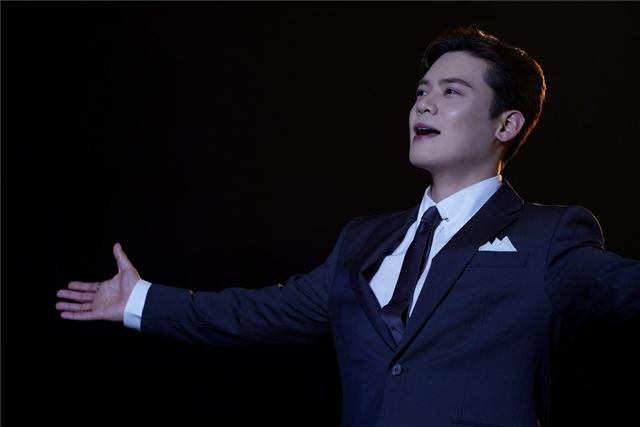
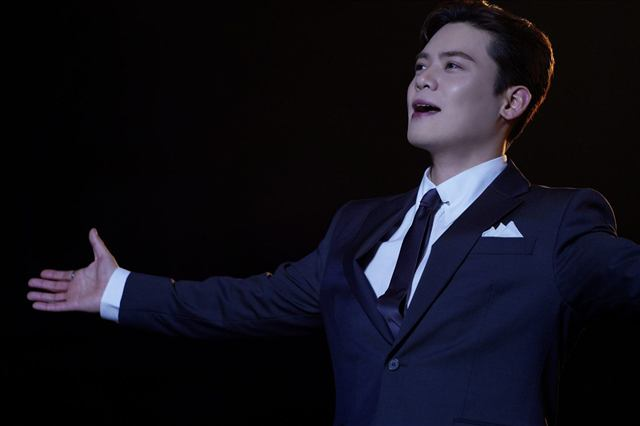
전후비교 2번 재정합: 비포 원본 복원, 애프터를 비포 화각으로 크롭
애프터가 비포보다 넓은 화각(위 7%, 왼쪽 4.7% 여백 추가)이었음.
비포를 자르는 대신 애프터를 비포 프레임 영역으로 크롭해 여백을 일치시킴.

diff --git a/js/manifest.js b/js/manifest.js
@@ -1,1 +1,1 @@
-const MANIFEST = [{"p":"표지(디자인).jpg","w":1600,"h":1178},{"p":"표지(포토).jpg","w":1600,"h":1178},{"p":"Photo/보정 전_후/1 보정전.jpg","w":1600,"h":1067},{"p":"Photo/보정 전_후/1 보정후.jpg","w":1600,"h":1067},{"p":"Photo/보정 전_후/10 보정전.jpg","w":1600,"h":900},{"p":"Photo/보정 전_후/10 보정후.jpg","w":1600,"h":900},{"p":"Photo/보정 전_후/11 보정전.jpg","w":1600,"h":900},{"p":"Photo/보정 전_후/11 보정후.jpg","w":1600,"h":900},{"p":"Photo/보정 전_후/2 보정전.jpg","w":1505,"h":1002},{"p":"Photo/보정 전_후/2 보정후.jpg","w":1600,"h":1067},{"p":"Photo/보정 전_후/3 보정전.jpg","w":1600,"h":1067},{"p":"Photo/보정 전_후/3 보정후.jpg","w":1600,"h":1067},{"p":"Photo/보정 전_후/4 보정전.jpg","w":1600,"h":1067},{"p":"Photo/보정 전_후/4 보정후.jpg","w":1600,"h":1067},{"p":"Photo/보정 전_후/5 보정전.jpg","w":1600,"h":1067},{"p":"Photo/보정 전_후/5 보정후.jpg","w":1600,"h":1067},{"p":"Photo/보정 전_후/6 보정전.jpg","w":1600,"h":1067},{"p":"Photo/보정 전_후/6 보정후.jpg","w":1600,"h":1067},{"p":"Photo/보정 전_후/7 보정전.jpg","w":1503,"h":2257},{"p":"Photo/보정 전_후/7 보정후.jpg","w":1600,"h":2400},{"p":"Photo/보정 전_후/8 보정전.jpg","w":1600,"h":2400},{"p":"Photo/보정 전_후/8 보정후.jpg","w":1600,"h":2400},{"p":"Photo/보정 전_후/9 보정전.jpg","w":1600,"h":1067},{"p":"Photo/보정 전_후/9 보정후.jpg","w":1600,"h":1067},{"p":"Photo/사진 보정/ZB1/IMG_2732.jpg","w":1279,"h":1599},{"p":"Photo/사진 보정/ZB1/IMG_2735.jpg","w":1280,"h":1600},{"p":"Photo/사진 보정/ZB1/IMG_2736.jpg","w":1279,"h":1599},{"p":"Photo/사진 보정/ZB1/KakaoTalk_Photo_2024-07-16-21-44-44-001.jpg","w":1080,"h":1440},{"p":"Photo/사진 보정/ZB1/KakaoTalk_Photo_2024-07-16-21-44-45-003.jpg","w":1080,"h":1440},{"p":"Photo/사진 보정/ZB1/KakaoTalk_Photo_2024-07-16-22-18-38-001.jpg","w":1600,"h":1200},{"p":"Photo/사진 보정/ZB1/KakaoTalk_Photo_2024-09-15-16-23-57-004.jpg","w":1280,"h":1707},{"p":"Photo/사진 보정/ZB1/KakaoTalk_Photo_2024-09-15-16-23-58-011.jpg","w":1280,"h":1707},{"p":"Photo/사진 보정/ZB1/KakaoTalk_Photo_2024-09-20-19-52-52-001.jpg","w":1600,"h":2133},{"p":"Photo/사진 보정/ZB1/KakaoTalk_Photo_2024-09-21-23-08-23-004.jpg","w":1080,"h":1440},{"p":"Photo/사진 보정/ZB1/KakaoTalk_Photo_2024-09-22-22-04-35-001.jpg","w":1058,"h":1411},{"p":"Photo/사진 보정/ZB1/KakaoTalk_Photo_2024-10-12-23-06-18-002.jpg","w":960,"h":1280},{"p":"Photo/사진 보정/ZB1/KakaoTalk_Photo_2025-04-19-01-57-40 001.jpg","w":1179,"h":1453},{"p":"Photo/사진 보정/ZB1/KakaoTalk_Photo_2025-04-19-01-57-41 002.jpg","w":1179,"h":1469},{"p":"Photo/사진 보정/ZB1/KakaoTalk_Photo_2025-04-19-01-57-41 003.jpg","w":1179,"h":1469},{"p":"Photo/사진 보정/ZB1/KakaoTalk_Photo_2025-04-19-01-57-41 004.jpg","w":1179,"h":1459},{"p":"Photo/사진 보정/ZB1/KakaoTalk_Photo_2025-04-19-01-57-43 013.jpg","w":1163,"h":1459},{"p":"Photo/사진 보정/ZB1/KakaoTalk_Photo_2025-04-19-01-57-43 014.jpg","w":1179,"h":1465},{"p":"Photo/사진 보정/ZB1/KakaoTalk_Photo_2025-04-19-01-57-43 015.jpg","w":1179,"h":1459},{"p":"Photo/사진 보정/시네마/[시네마] 모비딕 자켓1.jpg","w":1600,"h":1066},{"p":"Photo/사진 보정/시네마/[시네마] 모비딕 자켓2.jpg","w":1600,"h":1066},{"p":"Photo/사진 보정/시네마/[시네마] 모비딕 자켓3.jpg","w":1600,"h":1066},{"p":"Photo/사진 보정/시네마/[시네마] 모비딕 자켓4.jpg","w":1600,"h":1066},{"p":"Photo/사진 보정/시네마/[시네마] 모비딕 자켓5.jpg","w":1600,"h":1066},{"p":"Photo/사진 보정/시네마/[시네마] 청춘콘썰트1.jpg","w":1334,"h":2000},{"p":"Photo/사진 보정/시네마/[시네마] 청춘콘썰트2.jpg","w":1600,"h":1066},{"p":"Photo/사진 보정/시네마/[시네마] 청춘콘썰트3.jpg","w":1600,"h":1066},{"p":"Photo/사진 보정/시네마/[시네마] 청춘콘썰트4.jpg","w":1334,"h":2000},{"p":"Photo/사진 보정/시네마/[시네마] 청춘콘썰트5.jpg","w":1600,"h":1066},{"p":"Photo/사진 보정/시네마/[시네마] 청춘콘썰트6.jpg","w":1600,"h":1067},{"p":"Photo/촬영 및 보정/ZB1/GoodsoBad MV 비하인드 1.jpg","w":1179,"h":1510},{"p":"Photo/촬영 및 보정/ZB1/GoodsoBad MV 비하인드 2.jpg","w":1179,"h":1513},{"p":"Photo/촬영 및 보정/ZB1/GoodsoBad MV 비하인드 3.jpg","w":1179,"h":1482},{"p":"Photo/촬영 및 보정/ZB1/GoodsoBad MV 비하인드 4.jpg","w":1179,"h":1459},{"p":"Photo/촬영 및 보정/ZB1/마담피가로 화보 비하인드 1.jpg","w":1179,"h":1463},{"p":"Photo/촬영 및 보정/ZB1/마담피가로 화보 비하인드 2.jpg","w":1179,"h":1456},{"p":"Photo/촬영 및 보정/ZB1/마담피가로 화보 비하인드 3.jpg","w":1179,"h":1459},{"p":"Photo/촬영 및 보정/ZB1/마담피가로 화보 비하인드 4.jpg","w":1179,"h":1466},{"p":"Photo/촬영 및 보정/ZB1/영상 촬영/ZEROBASEONE 'GoodsoBad' MV 비하인드 1.jpg","w":1179,"h":1965},{"p":"Photo/촬영 및 보정/ZB1/영상 촬영/ZEROBASEONE 'GoodsoBad' MV 비하인드 2.jpg","w":1179,"h":1965},{"p":"Photo/촬영 및 보정/ZB1/영상 촬영/ZEROBASEONE 'GoodsoBad' MV 비하인드 3.jpg","w":1179,"h":1965},{"p":"Photo/촬영 및 보정/ZB1/영상 촬영/ZEROBASEONE 'GoodsoBad' MV 비하인드 4.jpg","w":1179,"h":1965},{"p":"Photo/촬영 및 보정/ZB1/영상 촬영/ZEROBASEONE 'GoodsoBad' MV 비하인드 5.jpg","w":1179,"h":1965},{"p":"Photo/촬영 및 보정/ZB1/영상 촬영/ZEROBASEONE 'GoodsoBad' MV 비하인드 6.jpg","w":1179,"h":1965},{"p":"Photo/촬영 및 보정/ZB1/영상 촬영/ZEROBASEONE 'GoodsoBad' MV 비하인드 7.jpg","w":1179,"h":2096},{"p":"Photo/촬영 및 보정/ZB1/영상 촬영/ZEROBASEONE 'GoodsoBad' MV 비하인드 8.jpg","w":1179,"h":2096},{"p":"Photo/촬영 및 보정/ZB1/영상 촬영/ZEROBASEONE 'GoodsoBad' MV 비하인드 9.jpg","w":1179,"h":2096},{"p":"Photo/촬영 및 보정/ZB1/영상 촬영/ZEROBASEONE 'GoodsoBad' MV 비하인드 10.jpg","w":1179,"h":2096},{"p":"Photo/촬영 및 보정/ZB1/영상 촬영/ZEROBASEONE 'GoodsoBad' MV 비하인드 11.jpg","w":1179,"h":2096},{"p":"Photo/촬영 및 보정/ZB1/영상 촬영/ZEROBASEONE 'GoodsoBad' MV 비하인드 12.jpg","w":1179,"h":2096},{"p":"Photo/촬영 및 보정/ZB1/영상 촬영/ZEROBASEONE 'GoodsoBad' MV 비하인드 13.jpg","w":1179,"h":2096},{"p":"Photo/촬영 및 보정/유채훈-일몬도비하인드/무대 DSC05353 셀렉 보정본 copy.jpg","w":1600,"h":1066},{"p":"Photo/촬영 및 보정/유채훈-일몬도비하인드/무대 DSC05935 셀렉 보정본 copy.jpg","w":1600,"h":1066},{"p":"Photo/촬영 및 보정/유채훈-일몬도비하인드/무대 DSC06022 셀렉 보정본 copy.jpg","w":1600,"h":1066},{"p":"Photo/촬영 및 보정/유채훈-일몬도비하인드/무대 DSC06262 셀렉 보정본 copy.jpg","w":1334,"h":2000},{"p":"Photo/촬영 및 보정/유채훈-일몬도비하인드/무대 DSC06371 셀렉 보정본 copy.jpg","w":1600,"h":1066},{"p":"Photo/촬영 및 보정/유채훈-일몬도비하인드/무대 DSC06573 셀렉 보정본 copy.jpg","w":1600,"h":1066},{"p":"Photo/촬영 및 보정/유채훈-일몬도비하인드/무대 DSC06782 셀렉 보정본 copy.jpg","w":1600,"h":1066},{"p":"Photo/촬영 및 보정/유채훈-일몬도비하인드/무대 DSC06799 셀렉 보정본 copy.jpg","w":1600,"h":1066},{"p":"Photo/촬영 및 보정/유채훈-일몬도비하인드/무대 DSC07052 셀렉 보정본 copy.jpg","w":1600,"h":1066},{"p":"Photo/촬영 및 보정/유채훈-일몬도비하인드/무대 DSC07096 셀렉 보정본 copy.jpg","w":1600,"h":1066},{"p":"Photo/촬영 및 보정/유채훈-일몬도비하인드/무대 DSC07332 셀렉 보정본 copy.jpg","w":1600,"h":1066},{"p":"Photo/촬영 및 보정/유채훈-일몬도비하인드/무대 DSC07368 셀렉 보정본 copy.jpg","w":1333,"h":2000},{"p":"Photo/촬영 및 보정/유채훈-포디움콘서트/DSC01893-셀렉-보정본.jpg","w":1600,"h":1067},{"p":"Photo/촬영 및 보정/유채훈-포디움콘서트/DSC02064-셀렉-보정본.jpg","w":1600,"h":1067},{"p":"Photo/촬영 및 보정/유채훈-포디움콘서트/DSC02195-셀렉-보정본.jpg","w":1600,"h":1067},{"p":"Photo/촬영 및 보정/유채훈-포디움콘서트/DSC02247-셀렉-보정본.jpg","w":1600,"h":1067},{"p":"Photo/촬영 및 보정/유채훈-포디움콘서트/DSC02271-셀렉-보정본.jpg","w":1600,"h":1067},{"p":"Photo/촬영 및 보정/유채훈-포디움콘서트/DSC02328-셀렉-보정본.jpg","w":1600,"h":1067},{"p":"Photo/촬영 및 보정/유채훈-포디움콘서트/DSC02492-셀렉-보정본.jpg","w":1600,"h":1067},{"p":"Photo/촬영 및 보정/유채훈-포디움콘서트/DSC04307-셀렉-보정본.jpg","w":1600,"h":1067},{"p":"디자인/Gaho/다이아몬드/1. 로고 티저.jpg","w":1600,"h":533},{"p":"디자인/Gaho/다이아몬드/2. 자켓티저 1-1.jpg","w":1600,"h":2000},{"p":"디자인/Gaho/다이아몬드/2. 자켓티저 1-2.jpg","w":1600,"h":2000},{"p":"디자인/Gaho/다이아몬드/2. 자켓티저 1-3.jpg","w":1600,"h":2000},{"p":"디자인/Gaho/다이아몬드/2. 자켓티저 2-1.jpg","w":1600,"h":2000},{"p":"디자인/Gaho/다이아몬드/2. 자켓티저 2-2.jpg","w":1600,"h":2000},{"p":"디자인/Gaho/다이아몬드/2. 자켓티저 2-3.jpg","w":1600,"h":2000},{"p":"디자인/Gaho/다이아몬드/2. 자켓티저 3-1.jpg","w":1600,"h":2000},{"p":"디자인/Gaho/다이아몬드/2. 자켓티저 3-2.jpg","w":1600,"h":2000},{"p":"디자인/Gaho/다이아몬드/MV-스틸컷-국내-1.jpg","w":1600,"h":1200},{"p":"디자인/Gaho/다이아몬드/MV-스틸컷-국내-2.jpg","w":1600,"h":1200},{"p":"디자인/Gaho/다이아몬드/MV-스틸컷-국내-3.jpg","w":1500,"h":2000},{"p":"디자인/Gaho/다이아몬드/SNS-1.jpg","w":1600,"h":1600},{"p":"디자인/Gaho/다이아몬드/SNS-2.jpg","w":1600,"h":1600},{"p":"디자인/Gaho/다이아몬드/SNS-3.jpg","w":1600,"h":1600},{"p":"디자인/Gaho/다이아몬드/SNS-4.jpg","w":1600,"h":1600},{"p":"디자인/Gaho/다이아몬드/SNS-5.jpg","w":1600,"h":1600},{"p":"디자인/Gaho/다이아몬드/[가호] Diamond 상세이미지 (1000X4498).jpg","w":1000,"h":4498},{"p":"디자인/Gaho/다이아몬드/리릭포스터.jpg","w":1500,"h":2000},{"p":"디자인/Gaho/다이아몬드/앨범커버.jpg","w":680,"h":680},{"p":"디자인/Gaho/다이아몬드/트랙리스트22.jpg","w":1600,"h":1600},{"p":"디자인/Gaho/다이아몬드/폴라포이드1.jpg","w":1500,"h":1500},{"p":"디자인/Gaho/다이아몬드/폴라포이드2.jpg","w":1500,"h":1500},{"p":"디자인/Gaho/다이아몬드/폴라포이드3.jpg","w":1500,"h":1500},{"p":"디자인/Gaho/다이아몬드/폴라포이드4.jpg","w":1500,"h":1500},{"p":"디자인/Gaho/다이아몬드/폴라포이드5.jpg","w":1500,"h":1500},{"p":"디자인/Gaho/온리유/1_02_1.jpg","w":1501,"h":2001},{"p":"디자인/Gaho/온리유/2_02_1.jpg","w":1501,"h":2001},{"p":"디자인/Gaho/온리유/3_02_1.jpg","w":1501,"h":2001},{"p":"디자인/Gaho/온리유/3_02_2.jpg","w":1501,"h":2001},{"p":"디자인/Gaho/온리유/Lyrics-포스터-가로2.jpg","w":1600,"h":1200},{"p":"디자인/Gaho/온리유/MV-스틸컷-커버1-1.jpg","w":1501,"h":2001},{"p":"디자인/Gaho/온리유/MV-스틸컷-커버1-2.jpg","w":1500,"h":2001},{"p":"디자인/Gaho/온리유/MV-스틸컷-커버1-3.jpg","w":1501,"h":2000},{"p":"디자인/Gaho/온리유/MV-스틸컷-커버1-4.jpg","w":1501,"h":2000},{"p":"디자인/Gaho/온리유/MV-스틸컷-커버2-1.jpg","w":1600,"h":1200},{"p":"디자인/Gaho/온리유/MV-스틸컷-커버2-2.jpg","w":1500,"h":2000},{"p":"디자인/Gaho/온리유/MV-스틸컷-커버2-3.jpg","w":1501,"h":2000},{"p":"디자인/Gaho/온리유/MV-스틸컷-커버2-4.jpg","w":1501,"h":2000},{"p":"디자인/Gaho/온리유/MV-스틸컷-커버3-2.jpg","w":1500,"h":2000},{"p":"디자인/Gaho/온리유/MV-스틸컷-커버3-3.jpg","w":1500,"h":2000},{"p":"디자인/Gaho/온리유/MV-스틸컷-커버3-4.jpg","w":1500,"h":2000},{"p":"디자인/Gaho/온리유/MV-스틸컷-커버3-5.jpg","w":1500,"h":2000},{"p":"디자인/Gaho/온리유/[가호] Only You 온라인커버(1500X1500).jpg","w":1500,"h":1500},{"p":"디자인/Gaho/다이아몬드/마플샵 굿즈/다이아몬드 블랙반팔티.jpg","w":1200,"h":1200},{"p":"디자인/Gaho/다이아몬드/마플샵 굿즈/다이아몬드 스택컵.jpg","w":1200,"h":1200},{"p":"디자인/Gaho/다이아몬드/마플샵 굿즈/다이아몬드 키링.jpg","w":1200,"h":1200},{"p":"디자인/Gaho/다이아몬드/마플샵 굿즈/다이아몬드 텀블러.jpg","w":1200,"h":1200},{"p":"디자인/Gaho/다이아몬드/마플샵 굿즈/다이아몬드 패브릭포스터.jpg","w":1200,"h":1200},{"p":"디자인/Gaho/다이아몬드/마플샵 굿즈/다이아몬드 핀버튼.jpg","w":1200,"h":1200},{"p":"디자인/Gaho/다이아몬드/마플샵 굿즈/다이아몬드 하얀반팔티.jpg","w":1200,"h":1200},{"p":"디자인/Gaho/온리유/마플샵 굿즈/온리유 반팔.png","w":1289,"h":1286},{"p":"디자인/Gaho/온리유/마플샵 굿즈/온리유 키링.png","w":1284,"h":1284},{"p":"디자인/Gaho/온리유/마플샵 굿즈/온리유 패브릭.png","w":1284,"h":1289},{"p":"디자인/Gaho/온리유/마플샵 굿즈/온리유 핀버튼.png","w":1286,"h":1289},{"p":"디자인/Gaho/온리유/마플샵 굿즈/온리유 후드티.png","w":1284,"h":1288},{"p":"디자인/ZB1/GoodsoBad 바이럴 이미지1.jpg","w":1080,"h":1920},{"p":"디자인/ZB1/GoodsoBad 바이럴 이미지2.jpg","w":1080,"h":1920},{"p":"디자인/ZB1/GoodsoBad 바이럴 이미지3.png","w":640,"h":100},{"p":"디자인/ZB1/GoodsoBad 바이럴 이미지4.png","w":300,"h":250},{"p":"디자인/ZB1/GoodsoBad 바이럴 이미지5.png","w":1029,"h":258},{"p":"디자인/ZB1/GoodsoBad 바이럴 이미지6.png","w":1200,"h":627},{"p":"디자인/ZB1/GoodsoBad 바이럴 이미지7.png","w":1200,"h":627},{"p":"디자인/ZB1/GoodsoBad 바이럴 이미지8.png","w":1200,"h":627},{"p":"디자인/ZB1/GoodsoBad 쇼케이스 현수막(현장사진)1.jpg","w":1440,"h":1081},{"p":"디자인/ZB1/GoodsoBad 쇼케이스 현수막(현장사진)2.jpg","w":1080,"h":1440},{"p":"디자인/ZB1/GoodsoBad 쇼케이스 현수막(현장사진)3.jpg","w":1080,"h":1440},{"p":"디자인/ZB1/GoodsoBad 쇼케이스 현수막(현장사진)4.jpg","w":1080,"h":1440},{"p":"디자인/ZB1/GoodsoBad 쇼케이스 현수막1.png","w":1492,"h":1973},{"p":"디자인/ZB1/GoodsoBad 쇼케이스 현수막2.png","w":1581,"h":236},{"p":"디자인/ZB1/GoodsoBad 쇼케이스 현수막3.png","w":1587,"h":874},{"p":"디자인/ZB1/GoodsoBad 쇼케이스 현수막4.png","w":700,"h":1882},{"p":"디자인/ZB1/GoodsoBad뮤비조회수축전(20M).jpg","w":1440,"h":1920},{"p":"디자인/ZB1/GoodsoBad뮤비조회수축전(40M).jpg","w":1440,"h":1920},{"p":"디자인/ZB1/GoodsoBad숏터뷰썸네일-건욱.jpg","w":1280,"h":720},{"p":"디자인/ZB1/GoodsoBad숏터뷰썸네일-규빈.jpg","w":1280,"h":720},{"p":"디자인/ZB1/GoodsoBad숏터뷰썸네일-리키.jpg","w":1280,"h":720},{"p":"디자인/ZB1/GoodsoBad숏터뷰썸네일-매튜.jpg","w":1280,"h":720},{"p":"디자인/ZB1/GoodsoBad숏터뷰썸네일-유지태.jpg","w":1280,"h":720},{"p":"디자인/ZB1/GoodsoBad숏터뷰썸네일-유진.jpg","w":1280,"h":720},{"p":"디자인/ZB1/GoodsoBad숏터뷰썸네일-장하오.jpg","w":1280,"h":720},{"p":"디자인/ZB1/GoodsoBad숏터뷰썸네일-지웅.jpg","w":1280,"h":720},{"p":"디자인/ZB1/GoodsoBad숏터뷰썸네일-태래.jpg","w":1280,"h":720},{"p":"디자인/ZB1/GoodsoBad숏터뷰썸네일-한빈.jpg","w":1280,"h":720},{"p":"디자인/ZB1/GoodsoBad활동마무리(웨이보)매튜.jpg","w":1080,"h":1356},{"p":"디자인/ZB1/GoodsoBad활동마무리(웨이보)지웅.jpg","w":1080,"h":1356},{"p":"디자인/ZB1/GoodsoBad활동마무리(웨이보)하오.jpg","w":1080,"h":1356},{"p":"디자인/ZB1/GoodsoBad활동마무리(웨이보)한빈.jpg","w":1080,"h":1356},{"p":"디자인/ZB1/ZB1 미니 4집 팬쇼케이스 라이브 감사 페이지.jpg","w":1600,"h":900},{"p":"디자인/ZB1/ZB1 미니 4집 팬쇼케이스 라이브 대기 페이지.jpg","w":1600,"h":900},{"p":"디자인/ZB1/ZB1 미니 4집 팬쇼케이스 라이브 썸네일.jpg","w":1600,"h":900},{"p":"디자인/ZB1/ZB1-미니-4집-팬쇼케이스-라이브-썸네일-스토리용.jpg","w":1080,"h":1920},{"p":"디자인/ZB1/인스타필터-거니니.png","w":1080,"h":1920},{"p":"디자인/ZB1/인스타필터-태니니.png","w":1080,"h":1920},{"p":"디자인/ZB1/인스타필터-튜니니.png","w":1080,"h":1920},{"p":"디자인/ZB1/인스타필터-하니니(촬영용).jpg","w":1179,"h":2096},{"p":"디자인/ZB1/인스타필터-하니니.png","w":1080,"h":1920},{"p":"디자인/ZB1/지비티빙 롯데월드 자컨 포스터.jpg","w":1080,"h":1920},{"p":"디자인/ZB1/콘서트 SNS 공지1.png","w":1080,"h":1920},{"p":"디자인/ZB1/콘서트 SNS 공지2.png","w":1080,"h":1920},{"p":"디자인/ZB1/콘서트 SNS 공지3.png","w":1080,"h":1920},{"p":"디자인/ZB1/콘서트 SNS 공지4.png","w":1080,"h":1920},{"p":"디자인/기탁/비욘드 콘서트 디자인/Beyond-포스터.jpg","w":1191,"h":1684},{"p":"디자인/기탁/비욘드 콘서트 디자인/LED-송출-코너-안내-이미지-(2816X1024px)-금쪽상담소.jpg","w":1600,"h":582},{"p":"디자인/기탁/비욘드 콘서트 디자인/LED-송출-코너-안내-이미지-(2816X1024px)-기탁퀴즈.jpg","w":1600,"h":582},{"p":"디자인/기탁/비욘드 콘서트 디자인/LED-송출-코너-안내-이미지-(2816X1024px)-딸기마켓.jpg","w":1600,"h":582},{"p":"디자인/기탁/비욘드 콘서트 디자인/LED-송출-코너-안내-이미지-(2816X1024px)-포스터.jpg","w":1600,"h":582},{"p":"디자인/기탁/비욘드 콘서트 디자인/상세이미지(960X5092).jpg","w":960,"h":5128},{"p":"디자인/기탁/비하인드 SNS 이미지/시소 뮤비 비하인드 포스트 이미지 (정방형).jpg","w":1350,"h":1350},{"p":"디자인/기탁/비하인드 SNS 이미지/시소 자켓 비하인드 포스트 이미지 (스토리용).jpg","w":1080,"h":1920},{"p":"디자인/기탁/비하인드 SNS 이미지/썸머 뮤비 포스트-이미지-(정방형).jpg","w":1350,"h":1350},{"p":"디자인/기탁/비하인드 SNS 이미지/썸머 자켓 포스트-이미지-(스토리용).jpg","w":1080,"h":1920},{"p":"디자인/디어유버블/img_bubble_popup_cnema_startsnow.jpg","w":1200,"h":2000},{"p":"디자인/디어유버블/img_bubble_popup_gaho,youchaehoon_startsnow.jpg","w":1200,"h":2000},{"p":"디자인/디어유버블/img_bubble_sns_youchaehoon_startsnow.jpg","w":975,"h":975},{"p":"디자인/라포엠/라포엠100만뷰축전이미지1.png","w":1500,"h":1500},{"p":"디자인/라포엠/라포엠100만뷰축전이미지2.png","w":1500,"h":1500},{"p":"디자인/유채훈/유음세 credit.png","w":1600,"h":3504},{"p":"디자인/유채훈/유음세 썸네일.jpg","w":1600,"h":900},{"p":"디자인/유채훈/비하인드 SNS 이미지/리필콘서트 포스트 이미지 (정방형).jpg","w":1350,"h":1350},{"p":"디자인/유채훈/비하인드 SNS 이미지/유음세 포스트-이미지-(정방형).jpg","w":1350,"h":1350},{"p":"디자인/유채훈/비하인드 SNS 이미지/일몬도비하인드 포스트-이미지-(스토리용).jpg","w":1080,"h":1920},{"p":"디자인/유채훈/비하인드 SNS 이미지/콘텐츠비하인드 포스트-이미지-(스토리용).jpg","w":1080,"h":1920},{"p":"디자인/임시완-팬콘/메인-포스터_상세이미지-(국문)1.jpg","w":750,"h":1578},{"p":"디자인/임시완-팬콘/메인-포스터_상세이미지-(국문)2.jpg","w":750,"h":5114},{"p":"디자인/임시완-팬콘/현수막 시안01.jpg","w":1600,"h":220},{"p":"디자인/정엽x유채훈 ReFeel 콘서트/상세페이지1.jpg","w":750,"h":4730},{"p":"디자인/정엽x유채훈 ReFeel 콘서트/상세페이지2.jpg","w":750,"h":1350},{"p":"디자인/정엽x유채훈 ReFeel 콘서트/포스터.jpg","w":1600,"h":2263},{"p":"디자인/정엽x유채훈 ReFeel 콘서트/현수막.jpg","w":1600,"h":222},{"p":"영상 썸네일/EP.1.jpg","w":1600,"h":900},{"p":"영상 썸네일/Let-It-Snow-썸네일.png","w":1600,"h":900},{"p":"영상 썸네일/[기탁] 2022 크리스마스 캐롤 커버 썸네일.png","w":1600,"h":900},{"p":"디자인/Gaho/온리유/Only You 로고.png","w":900,"h":545},{"p":"디자인/ZB1/GoodsoBad숏터뷰로고디자인.png","w":1600,"h":363},{"p":"디자인/ZB1/지비티빙-롯데월드-자컨-포스터-로고-디자인.png","w":1600,"h":655}];
+const MANIFEST = [{"p":"표지(디자인).jpg","w":1600,"h":1178},{"p":"표지(포토).jpg","w":1600,"h":1178},{"p":"Photo/보정 전_후/1 보정전.jpg","w":1600,"h":1067},{"p":"Photo/보정 전_후/1 보정후.jpg","w":1600,"h":1067},{"p":"Photo/보정 전_후/10 보정전.jpg","w":1600,"h":900},{"p":"Photo/보정 전_후/10 보정후.jpg","w":1600,"h":900},{"p":"Photo/보정 전_후/11 보정전.jpg","w":1600,"h":900},{"p":"Photo/보정 전_후/11 보정후.jpg","w":1600,"h":900},{"p":"Photo/보정 전_후/2 보정전.jpg","w":1600,"h":1067},{"p":"Photo/보정 전_후/2 보정후.jpg","w":1488,"h":991},{"p":"Photo/보정 전_후/3 보정전.jpg","w":1600,"h":1067},{"p":"Photo/보정 전_후/3 보정후.jpg","w":1600,"h":1067},{"p":"Photo/보정 전_후/4 보정전.jpg","w":1600,"h":1067},{"p":"Photo/보정 전_후/4 보정후.jpg","w":1600,"h":1067},{"p":"Photo/보정 전_후/5 보정전.jpg","w":1600,"h":1067},{"p":"Photo/보정 전_후/5 보정후.jpg","w":1600,"h":1067},{"p":"Photo/보정 전_후/6 보정전.jpg","w":1600,"h":1067},{"p":"Photo/보정 전_후/6 보정후.jpg","w":1600,"h":1067},{"p":"Photo/보정 전_후/7 보정전.jpg","w":1503,"h":2257},{"p":"Photo/보정 전_후/7 보정후.jpg","w":1600,"h":2400},{"p":"Photo/보정 전_후/8 보정전.jpg","w":1600,"h":2400},{"p":"Photo/보정 전_후/8 보정후.jpg","w":1600,"h":2400},{"p":"Photo/보정 전_후/9 보정전.jpg","w":1600,"h":1067},{"p":"Photo/보정 전_후/9 보정후.jpg","w":1600,"h":1067},{"p":"Photo/사진 보정/ZB1/IMG_2732.jpg","w":1279,"h":1599},{"p":"Photo/사진 보정/ZB1/IMG_2735.jpg","w":1280,"h":1600},{"p":"Photo/사진 보정/ZB1/IMG_2736.jpg","w":1279,"h":1599},{"p":"Photo/사진 보정/ZB1/KakaoTalk_Photo_2024-07-16-21-44-44-001.jpg","w":1080,"h":1440},{"p":"Photo/사진 보정/ZB1/KakaoTalk_Photo_2024-07-16-21-44-45-003.jpg","w":1080,"h":1440},{"p":"Photo/사진 보정/ZB1/KakaoTalk_Photo_2024-07-16-22-18-38-001.jpg","w":1600,"h":1200},{"p":"Photo/사진 보정/ZB1/KakaoTalk_Photo_2024-09-15-16-23-57-004.jpg","w":1280,"h":1707},{"p":"Photo/사진 보정/ZB1/KakaoTalk_Photo_2024-09-15-16-23-58-011.jpg","w":1280,"h":1707},{"p":"Photo/사진 보정/ZB1/KakaoTalk_Photo_2024-09-20-19-52-52-001.jpg","w":1600,"h":2133},{"p":"Photo/사진 보정/ZB1/KakaoTalk_Photo_2024-09-21-23-08-23-004.jpg","w":1080,"h":1440},{"p":"Photo/사진 보정/ZB1/KakaoTalk_Photo_2024-09-22-22-04-35-001.jpg","w":1058,"h":1411},{"p":"Photo/사진 보정/ZB1/KakaoTalk_Photo_2024-10-12-23-06-18-002.jpg","w":960,"h":1280},{"p":"Photo/사진 보정/ZB1/KakaoTalk_Photo_2025-04-19-01-57-40 001.jpg","w":1179,"h":1453},{"p":"Photo/사진 보정/ZB1/KakaoTalk_Photo_2025-04-19-01-57-41 002.jpg","w":1179,"h":1469},{"p":"Photo/사진 보정/ZB1/KakaoTalk_Photo_2025-04-19-01-57-41 003.jpg","w":1179,"h":1469},{"p":"Photo/사진 보정/ZB1/KakaoTalk_Photo_2025-04-19-01-57-41 004.jpg","w":1179,"h":1459},{"p":"Photo/사진 보정/ZB1/KakaoTalk_Photo_2025-04-19-01-57-43 013.jpg","w":1163,"h":1459},{"p":"Photo/사진 보정/ZB1/KakaoTalk_Photo_2025-04-19-01-57-43 014.jpg","w":1179,"h":1465},{"p":"Photo/사진 보정/ZB1/KakaoTalk_Photo_2025-04-19-01-57-43 015.jpg","w":1179,"h":1459},{"p":"Photo/사진 보정/시네마/[시네마] 모비딕 자켓1.jpg","w":1600,"h":1066},{"p":"Photo/사진 보정/시네마/[시네마] 모비딕 자켓2.jpg","w":1600,"h":1066},{"p":"Photo/사진 보정/시네마/[시네마] 모비딕 자켓3.jpg","w":1600,"h":1066},{"p":"Photo/사진 보정/시네마/[시네마] 모비딕 자켓4.jpg","w":1600,"h":1066},{"p":"Photo/사진 보정/시네마/[시네마] 모비딕 자켓5.jpg","w":1600,"h":1066},{"p":"Photo/사진 보정/시네마/[시네마] 청춘콘썰트1.jpg","w":1334,"h":2000},{"p":"Photo/사진 보정/시네마/[시네마] 청춘콘썰트2.jpg","w":1600,"h":1066},{"p":"Photo/사진 보정/시네마/[시네마] 청춘콘썰트3.jpg","w":1600,"h":1066},{"p":"Photo/사진 보정/시네마/[시네마] 청춘콘썰트4.jpg","w":1334,"h":2000},{"p":"Photo/사진 보정/시네마/[시네마] 청춘콘썰트5.jpg","w":1600,"h":1066},{"p":"Photo/사진 보정/시네마/[시네마] 청춘콘썰트6.jpg","w":1600,"h":1067},{"p":"Photo/촬영 및 보정/ZB1/GoodsoBad MV 비하인드 1.jpg","w":1179,"h":1510},{"p":"Photo/촬영 및 보정/ZB1/GoodsoBad MV 비하인드 2.jpg","w":1179,"h":1513},{"p":"Photo/촬영 및 보정/ZB1/GoodsoBad MV 비하인드 3.jpg","w":1179,"h":1482},{"p":"Photo/촬영 및 보정/ZB1/GoodsoBad MV 비하인드 4.jpg","w":1179,"h":1459},{"p":"Photo/촬영 및 보정/ZB1/마담피가로 화보 비하인드 1.jpg","w":1179,"h":1463},{"p":"Photo/촬영 및 보정/ZB1/마담피가로 화보 비하인드 2.jpg","w":1179,"h":1456},{"p":"Photo/촬영 및 보정/ZB1/마담피가로 화보 비하인드 3.jpg","w":1179,"h":1459},{"p":"Photo/촬영 및 보정/ZB1/마담피가로 화보 비하인드 4.jpg","w":1179,"h":1466},{"p":"Photo/촬영 및 보정/ZB1/영상 촬영/ZEROBASEONE 'GoodsoBad' MV 비하인드 1.jpg","w":1179,"h":1965},{"p":"Photo/촬영 및 보정/ZB1/영상 촬영/ZEROBASEONE 'GoodsoBad' MV 비하인드 2.jpg","w":1179,"h":1965},{"p":"Photo/촬영 및 보정/ZB1/영상 촬영/ZEROBASEONE 'GoodsoBad' MV 비하인드 3.jpg","w":1179,"h":1965},{"p":"Photo/촬영 및 보정/ZB1/영상 촬영/ZEROBASEONE 'GoodsoBad' MV 비하인드 4.jpg","w":1179,"h":1965},{"p":"Photo/촬영 및 보정/ZB1/영상 촬영/ZEROBASEONE 'GoodsoBad' MV 비하인드 5.jpg","w":1179,"h":1965},{"p":"Photo/촬영 및 보정/ZB1/영상 촬영/ZEROBASEONE 'GoodsoBad' MV 비하인드 6.jpg","w":1179,"h":1965},{"p":"Photo/촬영 및 보정/ZB1/영상 촬영/ZEROBASEONE 'GoodsoBad' MV 비하인드 7.jpg","w":1179,"h":2096},{"p":"Photo/촬영 및 보정/ZB1/영상 촬영/ZEROBASEONE 'GoodsoBad' MV 비하인드 8.jpg","w":1179,"h":2096},{"p":"Photo/촬영 및 보정/ZB1/영상 촬영/ZEROBASEONE 'GoodsoBad' MV 비하인드 9.jpg","w":1179,"h":2096},{"p":"Photo/촬영 및 보정/ZB1/영상 촬영/ZEROBASEONE 'GoodsoBad' MV 비하인드 10.jpg","w":1179,"h":2096},{"p":"Photo/촬영 및 보정/ZB1/영상 촬영/ZEROBASEONE 'GoodsoBad' MV 비하인드 11.jpg","w":1179,"h":2096},{"p":"Photo/촬영 및 보정/ZB1/영상 촬영/ZEROBASEONE 'GoodsoBad' MV 비하인드 12.jpg","w":1179,"h":2096},{"p":"Photo/촬영 및 보정/ZB1/영상 촬영/ZEROBASEONE 'GoodsoBad' MV 비하인드 13.jpg","w":1179,"h":2096},{"p":"Photo/촬영 및 보정/유채훈-일몬도비하인드/무대 DSC05353 셀렉 보정본 copy.jpg","w":1600,"h":1066},{"p":"Photo/촬영 및 보정/유채훈-일몬도비하인드/무대 DSC05935 셀렉 보정본 copy.jpg","w":1600,"h":1066},{"p":"Photo/촬영 및 보정/유채훈-일몬도비하인드/무대 DSC06022 셀렉 보정본 copy.jpg","w":1600,"h":1066},{"p":"Photo/촬영 및 보정/유채훈-일몬도비하인드/무대 DSC06262 셀렉 보정본 copy.jpg","w":1334,"h":2000},{"p":"Photo/촬영 및 보정/유채훈-일몬도비하인드/무대 DSC06371 셀렉 보정본 copy.jpg","w":1600,"h":1066},{"p":"Photo/촬영 및 보정/유채훈-일몬도비하인드/무대 DSC06573 셀렉 보정본 copy.jpg","w":1600,"h":1066},{"p":"Photo/촬영 및 보정/유채훈-일몬도비하인드/무대 DSC06782 셀렉 보정본 copy.jpg","w":1600,"h":1066},{"p":"Photo/촬영 및 보정/유채훈-일몬도비하인드/무대 DSC06799 셀렉 보정본 copy.jpg","w":1600,"h":1066},{"p":"Photo/촬영 및 보정/유채훈-일몬도비하인드/무대 DSC07052 셀렉 보정본 copy.jpg","w":1600,"h":1066},{"p":"Photo/촬영 및 보정/유채훈-일몬도비하인드/무대 DSC07096 셀렉 보정본 copy.jpg","w":1600,"h":1066},{"p":"Photo/촬영 및 보정/유채훈-일몬도비하인드/무대 DSC07332 셀렉 보정본 copy.jpg","w":1600,"h":1066},{"p":"Photo/촬영 및 보정/유채훈-일몬도비하인드/무대 DSC07368 셀렉 보정본 copy.jpg","w":1333,"h":2000},{"p":"Photo/촬영 및 보정/유채훈-포디움콘서트/DSC01893-셀렉-보정본.jpg","w":1600,"h":1067},{"p":"Photo/촬영 및 보정/유채훈-포디움콘서트/DSC02064-셀렉-보정본.jpg","w":1600,"h":1067},{"p":"Photo/촬영 및 보정/유채훈-포디움콘서트/DSC02195-셀렉-보정본.jpg","w":1600,"h":1067},{"p":"Photo/촬영 및 보정/유채훈-포디움콘서트/DSC02247-셀렉-보정본.jpg","w":1600,"h":1067},{"p":"Photo/촬영 및 보정/유채훈-포디움콘서트/DSC02271-셀렉-보정본.jpg","w":1600,"h":1067},{"p":"Photo/촬영 및 보정/유채훈-포디움콘서트/DSC02328-셀렉-보정본.jpg","w":1600,"h":1067},{"p":"Photo/촬영 및 보정/유채훈-포디움콘서트/DSC02492-셀렉-보정본.jpg","w":1600,"h":1067},{"p":"Photo/촬영 및 보정/유채훈-포디움콘서트/DSC04307-셀렉-보정본.jpg","w":1600,"h":1067},{"p":"디자인/Gaho/다이아몬드/1. 로고 티저.jpg","w":1600,"h":533},{"p":"디자인/Gaho/다이아몬드/2. 자켓티저 1-1.jpg","w":1600,"h":2000},{"p":"디자인/Gaho/다이아몬드/2. 자켓티저 1-2.jpg","w":1600,"h":2000},{"p":"디자인/Gaho/다이아몬드/2. 자켓티저 1-3.jpg","w":1600,"h":2000},{"p":"디자인/Gaho/다이아몬드/2. 자켓티저 2-1.jpg","w":1600,"h":2000},{"p":"디자인/Gaho/다이아몬드/2. 자켓티저 2-2.jpg","w":1600,"h":2000},{"p":"디자인/Gaho/다이아몬드/2. 자켓티저 2-3.jpg","w":1600,"h":2000},{"p":"디자인/Gaho/다이아몬드/2. 자켓티저 3-1.jpg","w":1600,"h":2000},{"p":"디자인/Gaho/다이아몬드/2. 자켓티저 3-2.jpg","w":1600,"h":2000},{"p":"디자인/Gaho/다이아몬드/MV-스틸컷-국내-1.jpg","w":1600,"h":1200},{"p":"디자인/Gaho/다이아몬드/MV-스틸컷-국내-2.jpg","w":1600,"h":1200},{"p":"디자인/Gaho/다이아몬드/MV-스틸컷-국내-3.jpg","w":1500,"h":2000},{"p":"디자인/Gaho/다이아몬드/SNS-1.jpg","w":1600,"h":1600},{"p":"디자인/Gaho/다이아몬드/SNS-2.jpg","w":1600,"h":1600},{"p":"디자인/Gaho/다이아몬드/SNS-3.jpg","w":1600,"h":1600},{"p":"디자인/Gaho/다이아몬드/SNS-4.jpg","w":1600,"h":1600},{"p":"디자인/Gaho/다이아몬드/SNS-5.jpg","w":1600,"h":1600},{"p":"디자인/Gaho/다이아몬드/[가호] Diamond 상세이미지 (1000X4498).jpg","w":1000,"h":4498},{"p":"디자인/Gaho/다이아몬드/리릭포스터.jpg","w":1500,"h":2000},{"p":"디자인/Gaho/다이아몬드/앨범커버.jpg","w":680,"h":680},{"p":"디자인/Gaho/다이아몬드/트랙리스트22.jpg","w":1600,"h":1600},{"p":"디자인/Gaho/다이아몬드/폴라포이드1.jpg","w":1500,"h":1500},{"p":"디자인/Gaho/다이아몬드/폴라포이드2.jpg","w":1500,"h":1500},{"p":"디자인/Gaho/다이아몬드/폴라포이드3.jpg","w":1500,"h":1500},{"p":"디자인/Gaho/다이아몬드/폴라포이드4.jpg","w":1500,"h":1500},{"p":"디자인/Gaho/다이아몬드/폴라포이드5.jpg","w":1500,"h":1500},{"p":"디자인/Gaho/온리유/1_02_1.jpg","w":1501,"h":2001},{"p":"디자인/Gaho/온리유/2_02_1.jpg","w":1501,"h":2001},{"p":"디자인/Gaho/온리유/3_02_1.jpg","w":1501,"h":2001},{"p":"디자인/Gaho/온리유/3_02_2.jpg","w":1501,"h":2001},{"p":"디자인/Gaho/온리유/Lyrics-포스터-가로2.jpg","w":1600,"h":1200},{"p":"디자인/Gaho/온리유/MV-스틸컷-커버1-1.jpg","w":1501,"h":2001},{"p":"디자인/Gaho/온리유/MV-스틸컷-커버1-2.jpg","w":1500,"h":2001},{"p":"디자인/Gaho/온리유/MV-스틸컷-커버1-3.jpg","w":1501,"h":2000},{"p":"디자인/Gaho/온리유/MV-스틸컷-커버1-4.jpg","w":1501,"h":2000},{"p":"디자인/Gaho/온리유/MV-스틸컷-커버2-1.jpg","w":1600,"h":1200},{"p":"디자인/Gaho/온리유/MV-스틸컷-커버2-2.jpg","w":1500,"h":2000},{"p":"디자인/Gaho/온리유/MV-스틸컷-커버2-3.jpg","w":1501,"h":2000},{"p":"디자인/Gaho/온리유/MV-스틸컷-커버2-4.jpg","w":1501,"h":2000},{"p":"디자인/Gaho/온리유/MV-스틸컷-커버3-2.jpg","w":1500,"h":2000},{"p":"디자인/Gaho/온리유/MV-스틸컷-커버3-3.jpg","w":1500,"h":2000},{"p":"디자인/Gaho/온리유/MV-스틸컷-커버3-4.jpg","w":1500,"h":2000},{"p":"디자인/Gaho/온리유/MV-스틸컷-커버3-5.jpg","w":1500,"h":2000},{"p":"디자인/Gaho/온리유/[가호] Only You 온라인커버(1500X1500).jpg","w":1500,"h":1500},{"p":"디자인/Gaho/다이아몬드/마플샵 굿즈/다이아몬드 블랙반팔티.jpg","w":1200,"h":1200},{"p":"디자인/Gaho/다이아몬드/마플샵 굿즈/다이아몬드 스택컵.jpg","w":1200,"h":1200},{"p":"디자인/Gaho/다이아몬드/마플샵 굿즈/다이아몬드 키링.jpg","w":1200,"h":1200},{"p":"디자인/Gaho/다이아몬드/마플샵 굿즈/다이아몬드 텀블러.jpg","w":1200,"h":1200},{"p":"디자인/Gaho/다이아몬드/마플샵 굿즈/다이아몬드 패브릭포스터.jpg","w":1200,"h":1200},{"p":"디자인/Gaho/다이아몬드/마플샵 굿즈/다이아몬드 핀버튼.jpg","w":1200,"h":1200},{"p":"디자인/Gaho/다이아몬드/마플샵 굿즈/다이아몬드 하얀반팔티.jpg","w":1200,"h":1200},{"p":"디자인/Gaho/온리유/마플샵 굿즈/온리유 반팔.png","w":1289,"h":1286},{"p":"디자인/Gaho/온리유/마플샵 굿즈/온리유 키링.png","w":1284,"h":1284},{"p":"디자인/Gaho/온리유/마플샵 굿즈/온리유 패브릭.png","w":1284,"h":1289},{"p":"디자인/Gaho/온리유/마플샵 굿즈/온리유 핀버튼.png","w":1286,"h":1289},{"p":"디자인/Gaho/온리유/마플샵 굿즈/온리유 후드티.png","w":1284,"h":1288},{"p":"디자인/ZB1/GoodsoBad 바이럴 이미지1.jpg","w":1080,"h":1920},{"p":"디자인/ZB1/GoodsoBad 바이럴 이미지2.jpg","w":1080,"h":1920},{"p":"디자인/ZB1/GoodsoBad 바이럴 이미지3.png","w":640,"h":100},{"p":"디자인/ZB1/GoodsoBad 바이럴 이미지4.png","w":300,"h":250},{"p":"디자인/ZB1/GoodsoBad 바이럴 이미지5.png","w":1029,"h":258},{"p":"디자인/ZB1/GoodsoBad 바이럴 이미지6.png","w":1200,"h":627},{"p":"디자인/ZB1/GoodsoBad 바이럴 이미지7.png","w":1200,"h":627},{"p":"디자인/ZB1/GoodsoBad 바이럴 이미지8.png","w":1200,"h":627},{"p":"디자인/ZB1/GoodsoBad 쇼케이스 현수막(현장사진)1.jpg","w":1440,"h":1081},{"p":"디자인/ZB1/GoodsoBad 쇼케이스 현수막(현장사진)2.jpg","w":1080,"h":1440},{"p":"디자인/ZB1/GoodsoBad 쇼케이스 현수막(현장사진)3.jpg","w":1080,"h":1440},{"p":"디자인/ZB1/GoodsoBad 쇼케이스 현수막(현장사진)4.jpg","w":1080,"h":1440},{"p":"디자인/ZB1/GoodsoBad 쇼케이스 현수막1.png","w":1492,"h":1973},{"p":"디자인/ZB1/GoodsoBad 쇼케이스 현수막2.png","w":1581,"h":236},{"p":"디자인/ZB1/GoodsoBad 쇼케이스 현수막3.png","w":1587,"h":874},{"p":"디자인/ZB1/GoodsoBad 쇼케이스 현수막4.png","w":700,"h":1882},{"p":"디자인/ZB1/GoodsoBad뮤비조회수축전(20M).jpg","w":1440,"h":1920},{"p":"디자인/ZB1/GoodsoBad뮤비조회수축전(40M).jpg","w":1440,"h":1920},{"p":"디자인/ZB1/GoodsoBad숏터뷰썸네일-건욱.jpg","w":1280,"h":720},{"p":"디자인/ZB1/GoodsoBad숏터뷰썸네일-규빈.jpg","w":1280,"h":720},{"p":"디자인/ZB1/GoodsoBad숏터뷰썸네일-리키.jpg","w":1280,"h":720},{"p":"디자인/ZB1/GoodsoBad숏터뷰썸네일-매튜.jpg","w":1280,"h":720},{"p":"디자인/ZB1/GoodsoBad숏터뷰썸네일-유지태.jpg","w":1280,"h":720},{"p":"디자인/ZB1/GoodsoBad숏터뷰썸네일-유진.jpg","w":1280,"h":720},{"p":"디자인/ZB1/GoodsoBad숏터뷰썸네일-장하오.jpg","w":1280,"h":720},{"p":"디자인/ZB1/GoodsoBad숏터뷰썸네일-지웅.jpg","w":1280,"h":720},{"p":"디자인/ZB1/GoodsoBad숏터뷰썸네일-태래.jpg","w":1280,"h":720},{"p":"디자인/ZB1/GoodsoBad숏터뷰썸네일-한빈.jpg","w":1280,"h":720},{"p":"디자인/ZB1/GoodsoBad활동마무리(웨이보)매튜.jpg","w":1080,"h":1356},{"p":"디자인/ZB1/GoodsoBad활동마무리(웨이보)지웅.jpg","w":1080,"h":1356},{"p":"디자인/ZB1/GoodsoBad활동마무리(웨이보)하오.jpg","w":1080,"h":1356},{"p":"디자인/ZB1/GoodsoBad활동마무리(웨이보)한빈.jpg","w":1080,"h":1356},{"p":"디자인/ZB1/ZB1 미니 4집 팬쇼케이스 라이브 감사 페이지.jpg","w":1600,"h":900},{"p":"디자인/ZB1/ZB1 미니 4집 팬쇼케이스 라이브 대기 페이지.jpg","w":1600,"h":900},{"p":"디자인/ZB1/ZB1 미니 4집 팬쇼케이스 라이브 썸네일.jpg","w":1600,"h":900},{"p":"디자인/ZB1/ZB1-미니-4집-팬쇼케이스-라이브-썸네일-스토리용.jpg","w":1080,"h":1920},{"p":"디자인/ZB1/인스타필터-거니니.png","w":1080,"h":1920},{"p":"디자인/ZB1/인스타필터-태니니.png","w":1080,"h":1920},{"p":"디자인/ZB1/인스타필터-튜니니.png","w":1080,"h":1920},{"p":"디자인/ZB1/인스타필터-하니니(촬영용).jpg","w":1179,"h":2096},{"p":"디자인/ZB1/인스타필터-하니니.png","w":1080,"h":1920},{"p":"디자인/ZB1/지비티빙 롯데월드 자컨 포스터.jpg","w":1080,"h":1920},{"p":"디자인/ZB1/콘서트 SNS 공지1.png","w":1080,"h":1920},{"p":"디자인/ZB1/콘서트 SNS 공지2.png","w":1080,"h":1920},{"p":"디자인/ZB1/콘서트 SNS 공지3.png","w":1080,"h":1920},{"p":"디자인/ZB1/콘서트 SNS 공지4.png","w":1080,"h":1920},{"p":"디자인/기탁/비욘드 콘서트 디자인/Beyond-포스터.jpg","w":1191,"h":1684},{"p":"디자인/기탁/비욘드 콘서트 디자인/LED-송출-코너-안내-이미지-(2816X1024px)-금쪽상담소.jpg","w":1600,"h":582},{"p":"디자인/기탁/비욘드 콘서트 디자인/LED-송출-코너-안내-이미지-(2816X1024px)-기탁퀴즈.jpg","w":1600,"h":582},{"p":"디자인/기탁/비욘드 콘서트 디자인/LED-송출-코너-안내-이미지-(2816X1024px)-딸기마켓.jpg","w":1600,"h":582},{"p":"디자인/기탁/비욘드 콘서트 디자인/LED-송출-코너-안내-이미지-(2816X1024px)-포스터.jpg","w":1600,"h":582},{"p":"디자인/기탁/비욘드 콘서트 디자인/상세이미지(960X5092).jpg","w":960,"h":5128},{"p":"디자인/기탁/비하인드 SNS 이미지/시소 뮤비 비하인드 포스트 이미지 (정방형).jpg","w":1350,"h":1350},{"p":"디자인/기탁/비하인드 SNS 이미지/시소 자켓 비하인드 포스트 이미지 (스토리용).jpg","w":1080,"h":1920},{"p":"디자인/기탁/비하인드 SNS 이미지/썸머 뮤비 포스트-이미지-(정방형).jpg","w":1350,"h":1350},{"p":"디자인/기탁/비하인드 SNS 이미지/썸머 자켓 포스트-이미지-(스토리용).jpg","w":1080,"h":1920},{"p":"디자인/디어유버블/img_bubble_popup_cnema_startsnow.jpg","w":1200,"h":2000},{"p":"디자인/디어유버블/img_bubble_popup_gaho,youchaehoon_startsnow.jpg","w":1200,"h":2000},{"p":"디자인/디어유버블/img_bubble_sns_youchaehoon_startsnow.jpg","w":975,"h":975},{"p":"디자인/라포엠/라포엠100만뷰축전이미지1.png","w":1500,"h":1500},{"p":"디자인/라포엠/라포엠100만뷰축전이미지2.png","w":1500,"h":1500},{"p":"디자인/유채훈/유음세 credit.png","w":1600,"h":3504},{"p":"디자인/유채훈/유음세 썸네일.jpg","w":1600,"h":900},{"p":"디자인/유채훈/비하인드 SNS 이미지/리필콘서트 포스트 이미지 (정방형).jpg","w":1350,"h":1350},{"p":"디자인/유채훈/비하인드 SNS 이미지/유음세 포스트-이미지-(정방형).jpg","w":1350,"h":1350},{"p":"디자인/유채훈/비하인드 SNS 이미지/일몬도비하인드 포스트-이미지-(스토리용).jpg","w":1080,"h":1920},{"p":"디자인/유채훈/비하인드 SNS 이미지/콘텐츠비하인드 포스트-이미지-(스토리용).jpg","w":1080,"h":1920},{"p":"디자인/임시완-팬콘/메인-포스터_상세이미지-(국문)1.jpg","w":750,"h":1578},{"p":"디자인/임시완-팬콘/메인-포스터_상세이미지-(국문)2.jpg","w":750,"h":5114},{"p":"디자인/임시완-팬콘/현수막 시안01.jpg","w":1600,"h":220},{"p":"디자인/정엽x유채훈 ReFeel 콘서트/상세페이지1.jpg","w":750,"h":4730},{"p":"디자인/정엽x유채훈 ReFeel 콘서트/상세페이지2.jpg","w":750,"h":1350},{"p":"디자인/정엽x유채훈 ReFeel 콘서트/포스터.jpg","w":1600,"h":2263},{"p":"디자인/정엽x유채훈 ReFeel 콘서트/현수막.jpg","w":1600,"h":222},{"p":"영상 썸네일/EP.1.jpg","w":1600,"h":900},{"p":"영상 썸네일/Let-It-Snow-썸네일.png","w":1600,"h":900},{"p":"영상 썸네일/[기탁] 2022 크리스마스 캐롤 커버 썸네일.png","w":1600,"h":900},{"p":"디자인/Gaho/온리유/Only You 로고.png","w":900,"h":545},{"p":"디자인/ZB1/GoodsoBad숏터뷰로고디자인.png","w":1600,"h":363},{"p":"디자인/ZB1/지비티빙-롯데월드-자컨-포스터-로고-디자인.png","w":1600,"h":655}];
